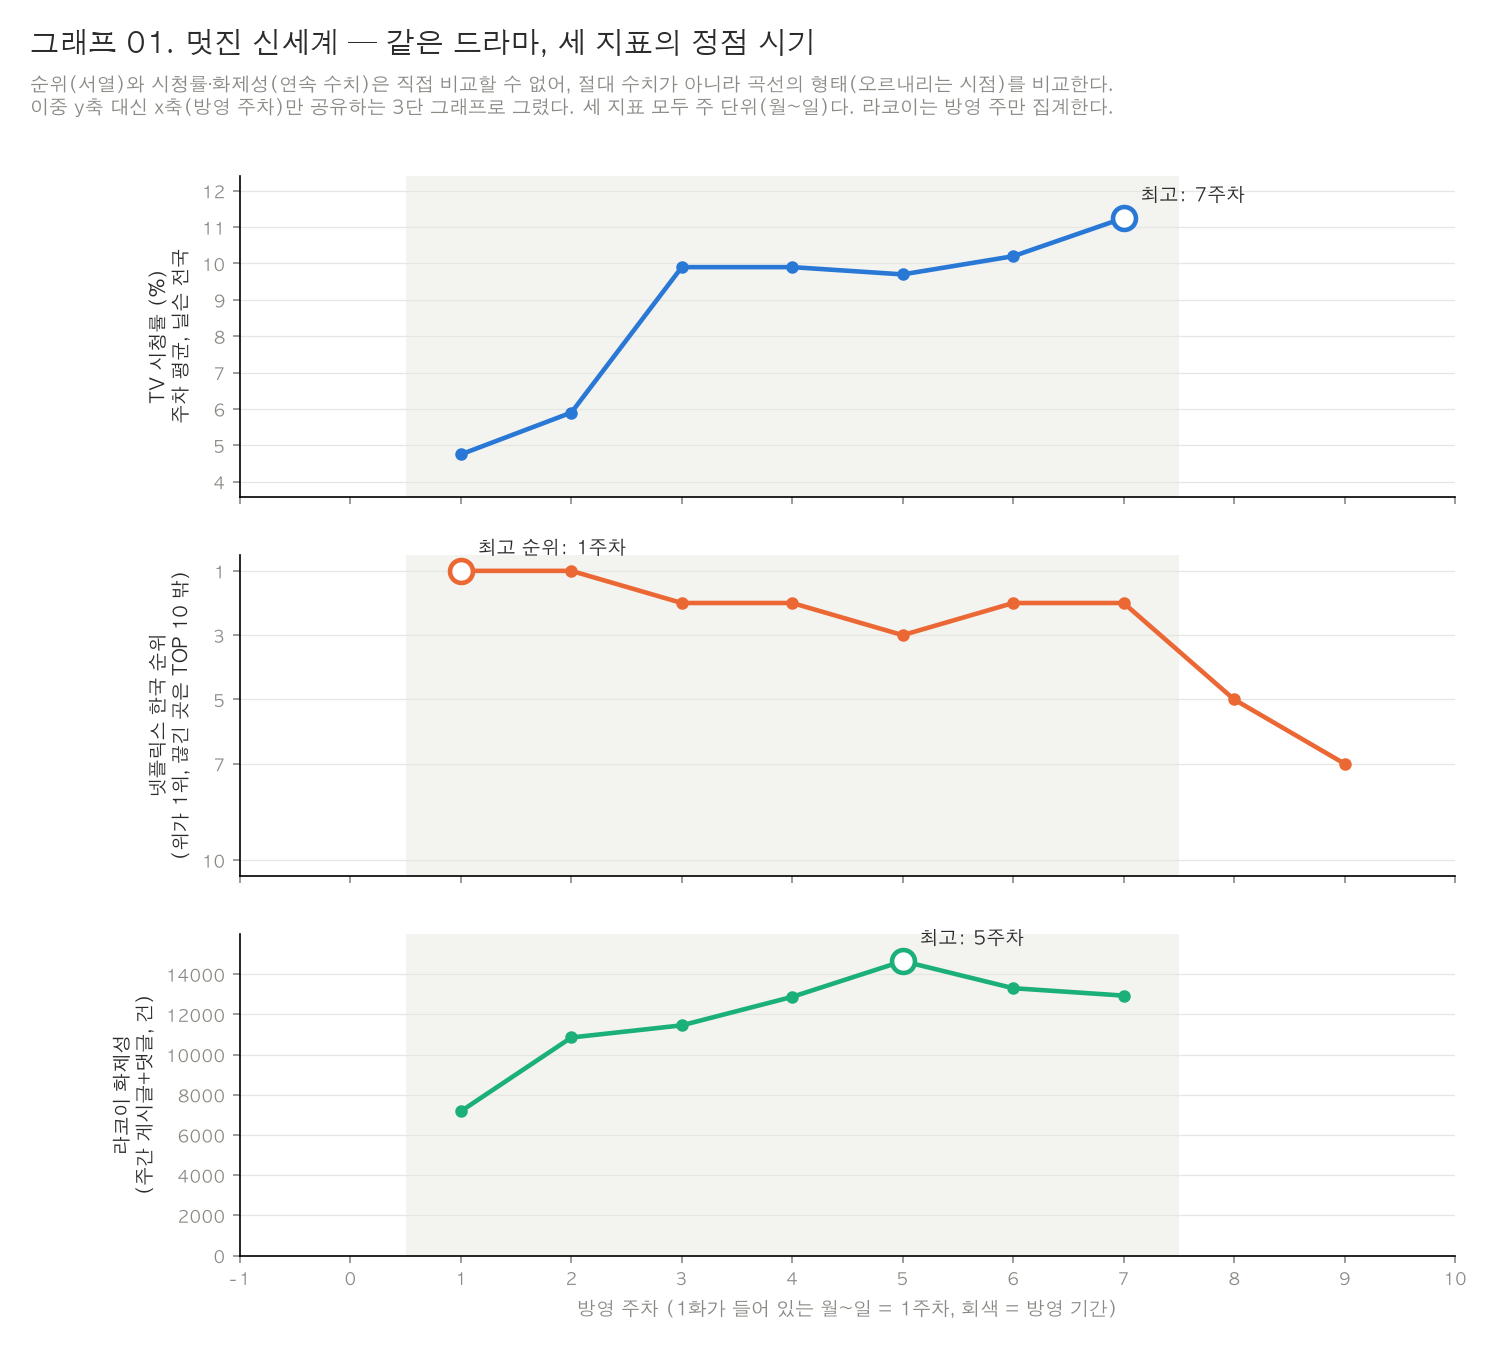
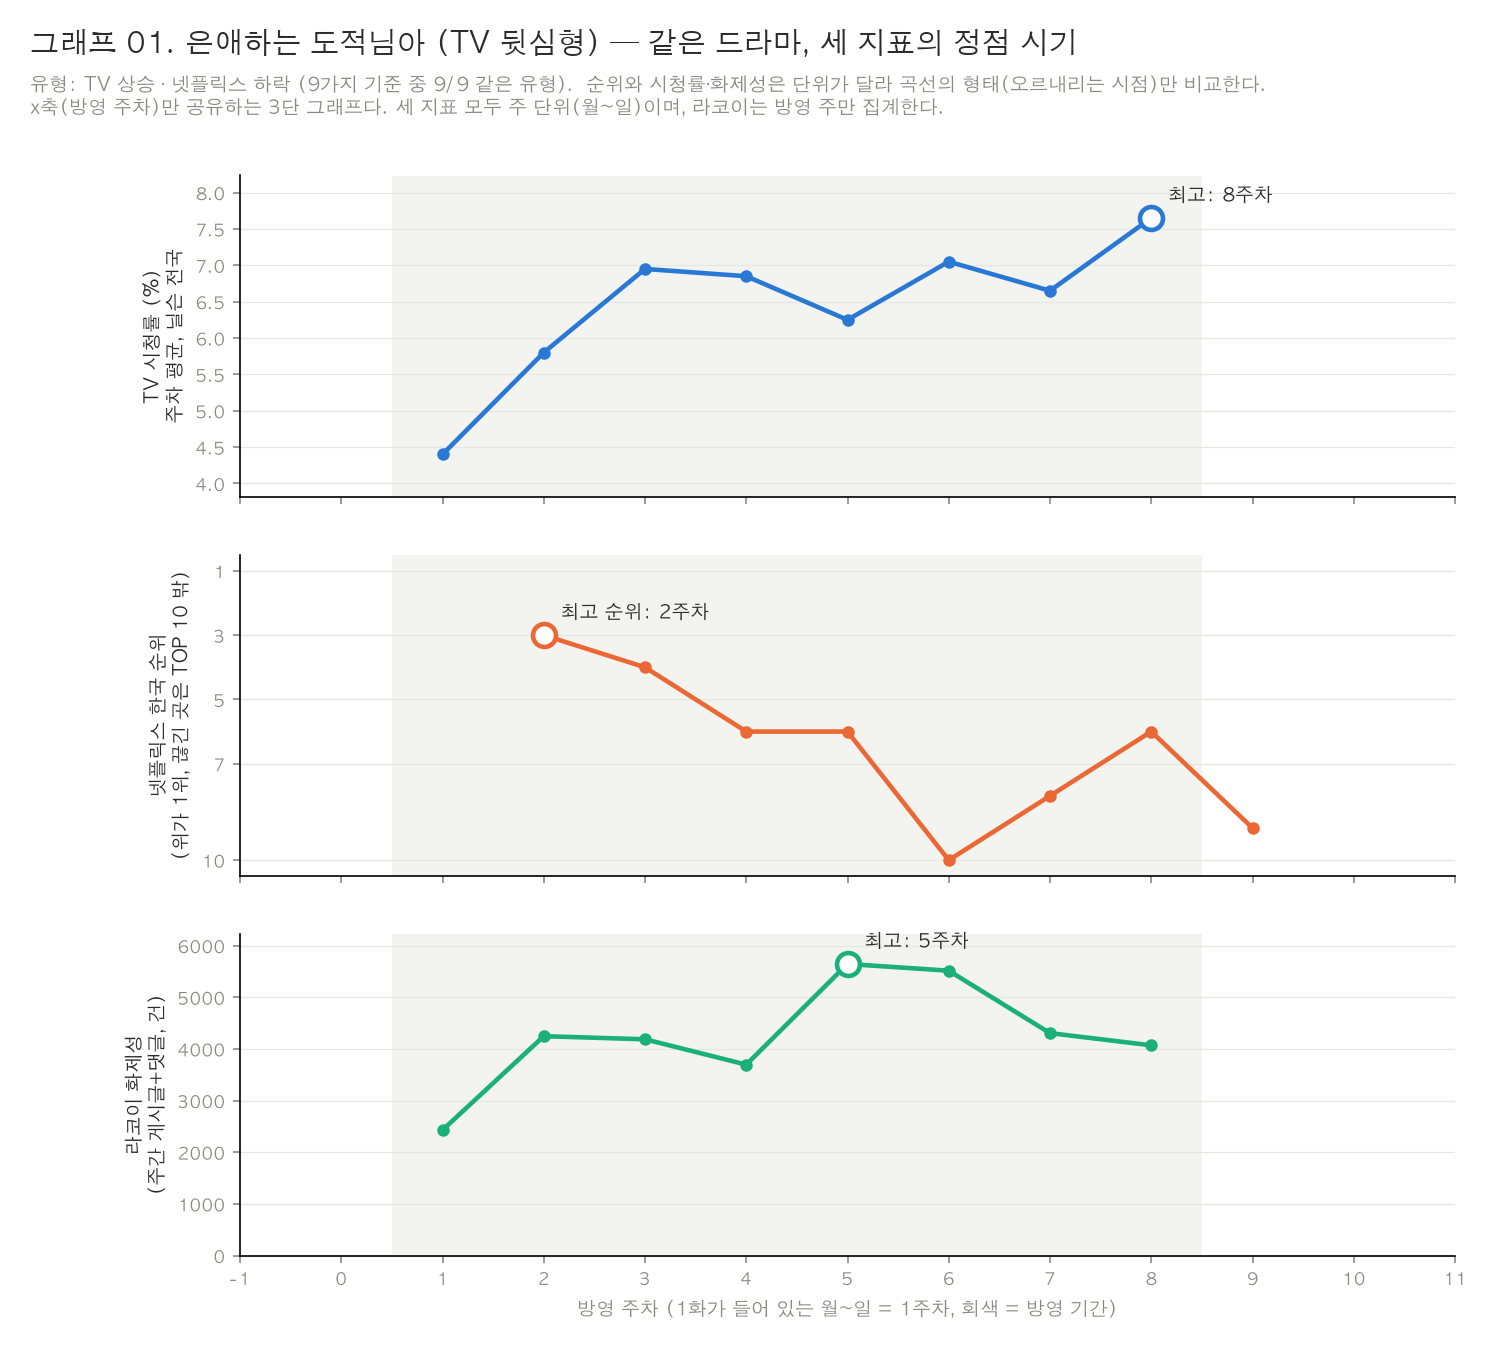
그래프 01 유형별 대표작 4편, 그래프 06 막대그래프, 그래프 12 추가, 표기 정리

diff --git a/src/graph01_triple.py b/src/graph01_triple.py
@@ -1,4 +1,6 @@
-"""그래프 01: 대표작 1편의 TV 시청률 · 넷플릭스 한국 순위 · 라코이 화제성 3단 그래프"""
+"""그래프 01: 유형별 대표작의 TV 시청률 · 넷플릭스 한국 순위 · 라코이 화제성 3단 그래프
+1장의 네 유형마다, 9가지 기준 모두에서 유형이 바뀌지 않은(9/9) 작품을 대표작으로 골랐다.
+먼저 ch1_curves.py, load_racoi.py를 실행해 둘 것"""
 import os
 import matplotlib.pyplot as plt
 import pandas as pd
@@ -7,56 +9,70 @@ plt.rcParams["font.family"] = "AppleGothic"
 plt.rcParams["axes.unicode_minus"] = False
 os.makedirs("images", exist_ok=True)
 
-REP = "멋진 신세계"                # 대표작 (I1 사례: 넷플릭스 → 화제성 → TV 순으로 정점)
+# 대표작 → 저장 파일 (01 = TV 뒷심형, 01b~01d = 나머지 세 유형)
+REPS = {
+    "은애하는 도적님아": "images/01_triple_curve.png",
+    "언더커버 미쓰홍": "images/01b_triple_undercover.png",
+    "샤이닝": "images/01c_triple_shining.png",
+    "신이랑 법률사무소": "images/01d_triple_phantom.png",
+}
+NOTES = {"신이랑 법률사무소": "6주차는 댓글만 급등한 주(REPORT 4-2). 이 주를 빼면 최고는 2주차"}   # 해석에 주의할 점
 
 dramas = pd.read_csv("data/dramas.csv", parse_dates=["first_air", "last_air"]).set_index("title")
+types = pd.read_csv("data/processed/ch1_types.csv").set_index("title")
 tv = pd.read_csv("data/processed/tv_weekly.csv")
 nf = pd.read_csv("data/processed/nf_kr_weekly.csv")
 rc = pd.read_csv("data/processed/racoi_weekly.csv")
-
-d = dramas.loc[REP]
-first_monday = d["first_air"] - pd.Timedelta(days=d["first_air"].weekday())
-
-# 라코이 주간 화제성 (게시글 + 댓글). 방영 주만 집계됨
-g_week = rc[rc["title"] == REP].set_index("week_no")["buzz"]
-
-t = tv[tv["title"] == REP].set_index("week_no")["rating"]
-n = nf[nf["title"] == REP].set_index("week_no")["weekly_rank"]
-last = int(t.index.max())
-weeks = range(-1, last + 4)                       # 방영 2주 전 ~ 종영 3주 뒤
-t, n, g_week = t.reindex(weeks), n.reindex(weeks), g_week.reindex(weeks)
-
 TV_C, NF_C, G_C, INK, MUTED = "#2a78d6", "#eb6834", "#1baf7a", "#2b2b2b", "#8a8a85"
-fig, axes = plt.subplots(3, 1, figsize=(10, 9), sharex=True)
-panels = [
-    (axes[0], t, TV_C, "TV 시청률 (%)\n주차 평균, 닐슨 전국", t.idxmax(), "최고"),
-    (axes[1], n, NF_C, "넷플릭스 한국 순위\n(위가 1위, 끊긴 곳은 TOP 10 밖)", n.idxmin() if n.notna().any() else None, "최고 순위"),
-    (axes[2], g_week, G_C, "라코이 화제성\n(주간 게시글+댓글, 건)", g_week.idxmax(), "최고"),
-]
-for ax, s, color, label, peak, word in panels:
-    ax.plot(s.index, s.values, color=color, lw=2.2, marker="o", ms=5)
-    if peak is not None:
-        ax.plot(peak, s[peak], "o", ms=11, mfc="white", mec=color, mew=2.2)
-        ax.annotate(f"{word}: {peak}주차", (peak, s[peak]), xytext=(8, 8), textcoords="offset points",
-                    fontsize=9, color=INK)
-    ax.set_ylabel(label, fontsize=9, color=INK)
-    ax.margins(y=0.18)
-    ax.axvspan(0.5, last + 0.5, color="#f3f3f0", lw=0, zorder=0)       # 방영 기간
-    ax.tick_params(labelsize=8, colors=MUTED)
-    ax.grid(axis="y", color="#e6e6e3", lw=0.6)
-    for sp in ("top", "right"):
-        ax.spines[sp].set_visible(False)
-axes[1].set_ylim(10.5, 0.5)
-axes[1].set_yticks([1, 3, 5, 7, 10])
-axes[2].set_ylim(bottom=0)
-axes[2].set_xticks(list(weeks))
-axes[2].set_xlabel("방영 주차 (1화가 들어 있는 월~일 = 1주차, 회색 = 방영 기간)", fontsize=9, color=MUTED)
 
-fig.suptitle(f"그래프 01. {REP} — 같은 드라마, 세 지표의 정점 시기", x=0.02, ha="left", fontsize=14, color=INK)
-fig.text(0.02, 0.945, "순위(서열)와 시청률·화제성(연속 수치)은 직접 비교할 수 없어, 절대 수치가 아니라 곡선의 형태(오르내리는 시점)를 비교한다.\n"
-         "이중 y축 대신 x축(방영 주차)만 공유하는 3단 그래프로 그렸다. 세 지표 모두 주 단위(월~일)다. 라코이는 방영 주만 집계한다.",
-         fontsize=9, color=MUTED, va="top")
-fig.subplots_adjust(top=0.87, bottom=0.07, left=0.16, right=0.97, hspace=0.18)
-fig.savefig("images/01_triple_curve.png", dpi=150)
-print("저장: images/01_triple_curve.png")
-print(pd.DataFrame({"TV 시청률": t, "넷플릭스 순위": n, "라코이 화제성": g_week}).to_string())
+
+def draw(rep, path, num):
+    t = tv[tv["title"] == rep].set_index("week_no")["rating"]
+    n = nf[nf["title"] == rep].set_index("week_no")["weekly_rank"]
+    g = rc[rc["title"] == rep].set_index("week_no")["buzz"]          # 라코이 주간 게시글+댓글 (방영 주만)
+    last = int(t.index.max())
+    weeks = range(-1, last + 4)                                       # 방영 2주 전 ~ 종영 3주 뒤
+    t, n, g = t.reindex(weeks), n.reindex(weeks), g.reindex(weeks)
+
+    fig, axes = plt.subplots(3, 1, figsize=(10, 9), sharex=True)
+    panels = [
+        (axes[0], t, TV_C, "TV 시청률 (%)\n주차 평균, 닐슨 전국", t.idxmax(), "최고"),
+        (axes[1], n, NF_C, "넷플릭스 한국 순위\n(위가 1위, 끊긴 곳은 TOP 10 밖)", n.idxmin() if n.notna().any() else None, "최고 순위"),
+        (axes[2], g, G_C, "라코이 화제성\n(주간 게시글+댓글, 건)", g.idxmax(), "최고"),
+    ]
+    for ax, s, color, label, peak, word in panels:
+        ax.plot(s.index, s.values, color=color, lw=2.2, marker="o", ms=5)
+        if peak is not None:
+            ax.plot(peak, s[peak], "o", ms=11, mfc="white", mec=color, mew=2.2)
+            ax.annotate(f"{word}: {peak}주차", (peak, s[peak]), xytext=(8, 8), textcoords="offset points",
+                        fontsize=9, color=INK)
+        ax.set_ylabel(label, fontsize=9, color=INK)
+        ax.margins(y=0.18)
+        ax.axvspan(0.5, last + 0.5, color="#f3f3f0", lw=0, zorder=0)   # 방영 기간
+        ax.tick_params(labelsize=8, colors=MUTED)
+        ax.grid(axis="y", color="#e6e6e3", lw=0.6)
+        for sp in ("top", "right"):
+            ax.spines[sp].set_visible(False)
+    axes[1].set_ylim(10.5, 0.5)
+    axes[1].set_yticks([1, 3, 5, 7, 10])
+    axes[2].set_ylim(bottom=0)
+    axes[2].set_xticks(list(weeks))
+    axes[2].set_xlabel("방영 주차 (1화가 들어 있는 월~일 = 1주차, 회색 = 방영 기간)", fontsize=9, color=MUTED)
+    if rep in NOTES:
+        axes[2].text(0.99, 0.95, NOTES[rep], transform=axes[2].transAxes, ha="right", va="top", fontsize=9, color=MUTED)
+
+    ty = types.loc[rep]
+    fig.suptitle(f"그래프 {num}. {rep} ({ty['quadrant']}) — 같은 드라마, 세 지표의 정점 시기",
+                 x=0.02, ha="left", fontsize=14, color=INK)
+    fig.text(0.02, 0.945,
+             f"유형: TV {ty['tv_type']} · 넷플릭스 {ty['nf_type']} (9가지 기준 중 {ty['sensitivity']} 같은 유형).  "
+             "순위와 시청률·화제성은 단위가 달라 곡선의 형태(오르내리는 시점)만 비교한다.\n"
+             "x축(방영 주차)만 공유하는 3단 그래프다. 세 지표 모두 주 단위(월~일)이며, 라코이는 방영 주만 집계한다.",
+             fontsize=9, color=MUTED, va="top")
+    fig.subplots_adjust(top=0.87, bottom=0.07, left=0.16, right=0.97, hspace=0.18)
+    fig.savefig(path, dpi=150)
+    print(f"저장: {path}  |  정점 주차 — TV {t.idxmax()}, 넷플릭스 {n.idxmin()}, 라코이 {g.idxmax()}")
+
+
+for (rep, path), num in zip(REPS.items(), ["01", "01-B", "01-C", "01-D"]):
+    draw(rep, path, num)

diff --git a/REPORT.md b/REPORT.md
@@ -142,6 +142,22 @@
 
 ![그래프 01](images/01_triple_curve.png)
 
+그래프 01은 네 유형 중 TV 뒷심형의 대표작이다. 나머지 세 유형도 같은 방식으로 그렸다. 대표작은 모두 9가지 기준에서 유형이 바뀌지 않은(9/9) 작품으로 골랐다(아래 민감도).
+
+| 그래프 | 대표작 (유형) | 정점 주차 (넷플릭스 → 화제성 → TV) | 읽을 점 |
+|---|---|---|---|
+| 01 | 은애하는 도적님아 (TV 뒷심형) | 2 → 5 → 8 | 넷플릭스가 가장 먼저, TV가 마지막 주에 정점 |
+| 01-B | 언더커버 미쓰홍 (동반 흥행형) | 7 → 8 → 8 | 넷플릭스 1주차 9위에서 시작해 후반까지 올라, 세 지표 모두 후반에 정점 |
+| 01-C | 샤이닝 (넷플릭스 강세형) | 3 → 2 → 1 | TV는 1주차가 최고였고 이후 하락. 10편 중 넷플릭스 정점이 TV보다 늦은 유일한 작품 |
+| 01-D | 신이랑 법률사무소 (동반 하락형) | 1 → 6 → 3 | 넷플릭스 1주차 1위 뒤 하락. 화제성 6주차는 댓글만 급등한 주(4-2)이며, 이 주를 빼면 2주차 |
+
+![그래프 01-B](images/01b_triple_undercover.png)
+
+![그래프 01-C](images/01c_triple_shining.png)
+
+![그래프 01-D](images/01d_triple_phantom.png)
+
+
 ![그래프 02](images/02_curve_types.png)
 
 **유형 판정 기준**
@@ -154,6 +170,8 @@
 | TV 뒷심형 (TV↑ 넷플릭스↓) | 은애하는 도적님아, 오늘부터 인간입니다만, 아기가 생겼어요, 오늘도 매진했습니다 |
 | 넷플릭스 강세형 (TV↓ 넷플릭스↑) | 샤이닝 |
 | 동반 하락형 (TV↓ 넷플릭스↓) | 신이랑 법률사무소 |
+
+↑는 "하락하지 않음"(상승 또는 유지), ↓는 하락이다. 예를 들어 샤이닝은 넷플릭스 순위가 유지(TV는 하락)여서 넷플릭스 강세형이다.
 
 **정점 시기 비교**
 
@@ -363,7 +381,7 @@
 ### I1. 넷플릭스 상대 순위의 정점이 TV 시청률 정점보다 먼저 왔다 (Q1 · 그래프 01, 02)
 
 **관찰(Fact)**
-그래프 01에서 멋진 신세계는 세 지표의 정점이 모두 달랐다. 넷플릭스 한국 순위는 1주차(1위), 라코이 화제성은 5주차(주 14,654건), TV 시청률은 마지막 7주차(11.25%)가 최고였다. TV 시청률은 4.75%에서 시작해 끝까지 올랐고, 넷플릭스는 방영 내내 1~3위를 지키다 종영 후 5위·7위로 내려갔다.
+그래프 01에서 은애하는 도적님아는 세 지표의 정점이 모두 달랐다. 넷플릭스 한국 순위는 2주차(3위), 라코이 화제성은 5주차(주 5,644건), TV 시청률은 마지막 8주차(7.65%)가 최고였다. 넷플릭스는 6주차에 10위까지 내려갔다가 마지막 주에 6위로 반등했다.
 10편 전체로 보면(그래프 02) 이번 10편 중 8편은 넷플릭스 한국 순위가 가장 높았던 주가 TV 시청률이 가장 높았던 주보다 빨랐다(중앙값 3.5주 앞섬). 넷플릭스 자료는 시청 시간이 아니라 TOP 10 안의 **상대 순위**이므로, 여기서 넷플릭스의 "정점"은 시청자가 가장 많았던 때가 아니라 다른 작품보다 가장 앞섰던 때다. 반례는 2편이다. 오늘도 매진했습니다는 두 정점이 같은 주였고, 샤이닝은 TV가 1주차 최고 뒤 하락하는 동안 넷플릭스는 3주차에 최고 순위였다.
 
 **원인(Why) — 가설**
@@ -476,7 +494,7 @@ python src/ch2_gap.py                # 2장 갭 + 그래프 03, 11
 python src/ch3_halflife.py           # 3장 구글 반감기 + 그래프 05
 python src/ch3_netflix.py            # 3장 넷플릭스 잔존 + 그래프 06
 python src/ch3_prefinale.py          # 3장 종영 전 관심 vs 잔존 + 그래프 10
-python src/graph01_triple.py         # 그래프 01
+python src/graph01_triple.py         # 그래프 01, 01-B·C·D (유형별 대표작)
 python src/graph07_trend_weekday.py  # 그래프 07
 python src/graph12_gap_weekly.py     # 그래프 12
 python src/bonus_decompose.py        # 보너스: 시계열 분해, 그래프 08
